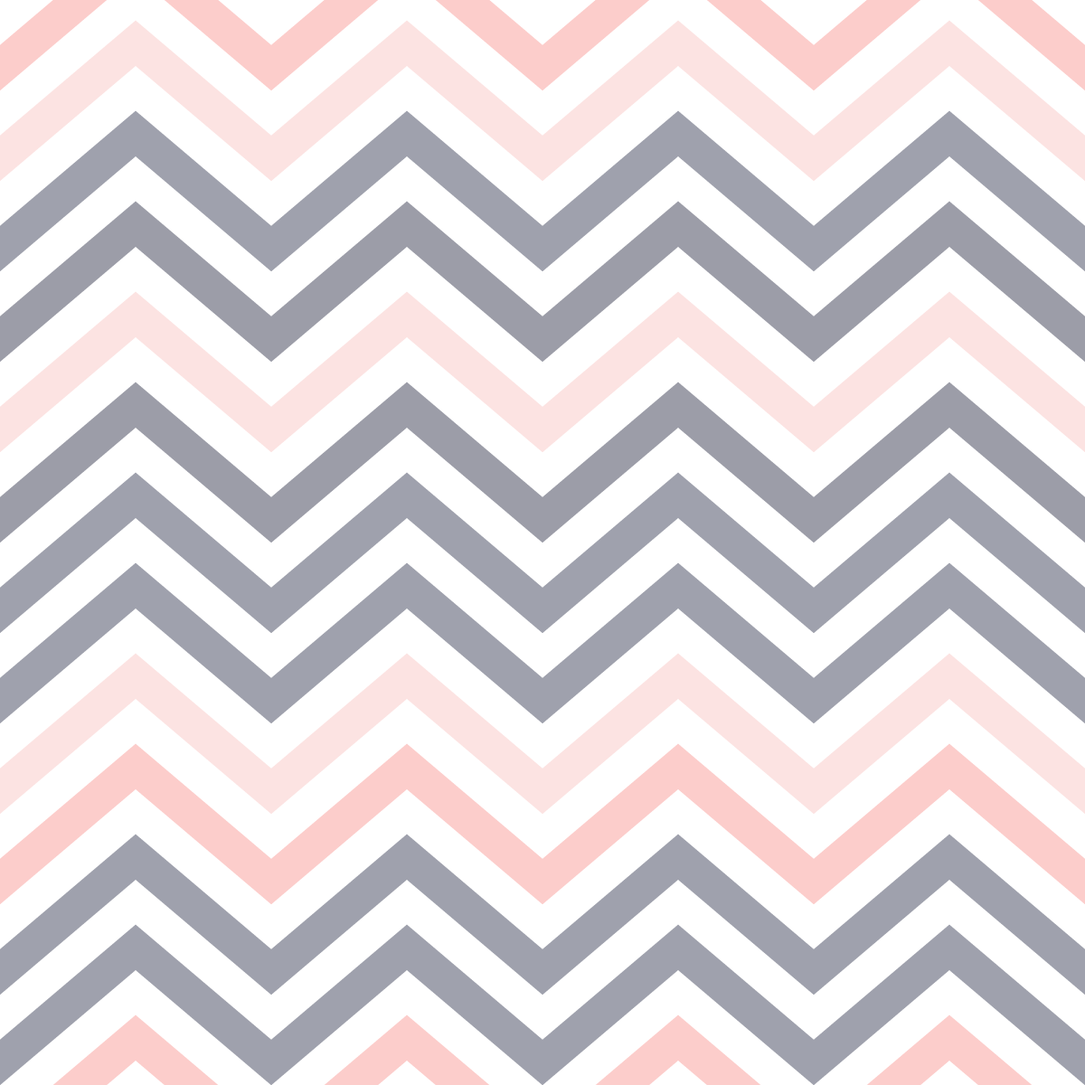
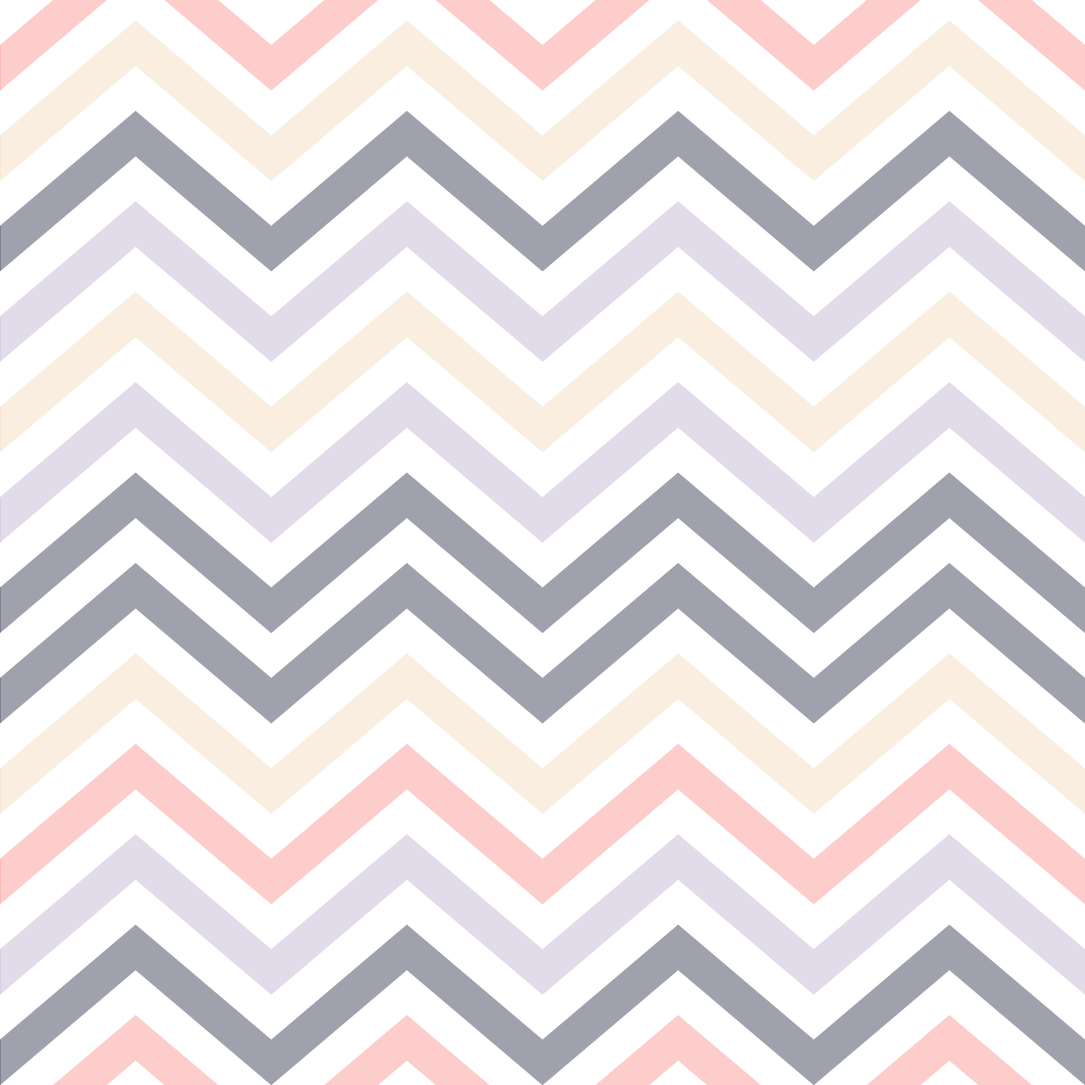
add filters

Changed region(s): [[0.0, 0.3392, 1.0, 0.4933], [0.0, 0.7708, 1.0, 0.925], [0.0, 0.185, 1.0, 0.3392]]

diff --git a/www/css/style.min.css b/www/css/style.min.css
@@ -1,1 +1,1 @@
-.content{*zoom:1}.content:after,.content:before{content:"";display:table}.content:after{clear:both}*,:after,:before{-webkit-box-sizing:border-box;box-sizing:border-box;outline:none}header:after{clear:both}header:after,header:before{content:"";display:table}body{background-color:#fff;color:#080a25;font-family:Varela Round,Helvetica,Arial,Sans-serif;font-weight:400;font-size:16px;font-size:1rem}.content{margin:0 auto;max-width:1280px;position:relative;padding:0 15px}ul{list-style:none;margin:0;padding:0}h1,h2,h3,h4,h5,h6{font-family:Permanent Marker,Helvetica,Arial,Sans-serif}a{text-decoration:none;color:#f8837d}button{background-color:#f86d64;border:0;border-radius:5px;padding:15px;position:relative;left:50%;-webkit-transform:translateX(-50%);transform:translateX(-50%);font-size:16px;font-size:1rem}.flex{display:-webkit-box;display:-ms-flexbox;display:flex}header{position:relative;width:100%}header.site-header .header-bar{position:absolute;top:0;left:0;z-index:99;width:100%;padding:40px 0}header.site-header .header-bar .logo{margin:0;padding-left:50px}header.site-header .header-bar .logo img{max-width:130px}header.site-header .header-bar .site-navigation{position:absolute;top:-11px;right:15px;z-index:9999;width:100%;height:22px;overflow:hidden;list-style:none;-webkit-transition:all .35s;transition:all .35s;color:#fff}header.site-header .header-bar .site-navigation.show{height:auto}header.site-header .header-bar .site-navigation.show ul{left:0}header.site-header .header-bar .site-navigation .hamburger-menu{position:relative;width:100%;max-width:24px;height:22px;margin-left:auto;-webkit-transition:.5s ease-in-out;transition:.5s ease-in-out;cursor:pointer}header.site-header .header-bar .site-navigation .hamburger-menu span{display:block;position:absolute;height:2px;width:100%;background:#fff;border-radius:10px;opacity:1;left:0;-webkit-transition:.25s ease-in-out;transition:.25s ease-in-out}header.site-header .header-bar .site-navigation .hamburger-menu span:first-child{top:2px}header.site-header .header-bar .site-navigation .hamburger-menu span:nth-child(2),header.site-header .header-bar .site-navigation .hamburger-menu span:nth-child(3){top:10px}header.site-header .header-bar .site-navigation .hamburger-menu span:nth-child(4){top:18px}header.site-header .header-bar .site-navigation .hamburger-menu.open span:first-child{top:18px;width:0;left:50%}header.site-header .header-bar .site-navigation .hamburger-menu.open span:nth-child(2){-webkit-transform:rotate(45deg);transform:rotate(45deg)}header.site-header .header-bar .site-navigation .hamburger-menu.open span:nth-child(3){-webkit-transform:rotate(-45deg);transform:rotate(-45deg)}header.site-header .header-bar .site-navigation .hamburger-menu.open span:nth-child(4){top:18px;width:0;left:50%}header.site-header .header-bar .site-navigation ul{position:fixed;top:0;left:-320px;z-index:9999;width:320px;height:100vh;overflow-x:scroll;padding:30px;margin:0;background:#080a25;-webkit-transition:all .35s;transition:all .35s}header.site-header .header-bar .site-navigation ul li{display:block;padding:15px 0}#lineup.content-section{width:100%;padding-bottom:120px;background:url(../media/img/background/lineup.png) repeat 50%}@media screen and (-moz-min-device-pixel-ratio:2),screen and (-webkit-min-device-pixel-ratio:2),screen and (min--moz-device-pixel-ratio:2),screen and (min-device-pixel-ratio:2),screen and (min-resolution:2dppx),screen and (min-resolution:192dpi){#lineup.content-section{background:url(../media/img/background/lineup@2x.png) repeat 50%;background-size:100% auto}}#lineup.content-section .lineup-artists-headline{margin-top:115px}#lineup.content-section .lineup-artists-headline p{margin:0;padding:0;font-size:14px;font-weight:600;color:#f8b9b6}#lineup.content-section .lineup-artists-headline .lineup-artists{padding-top:80px}#lineup.content-section .lineup-artists-headline .lineup-artists .lineup-artists-wrap{margin-top:80px}@media screen and (min-width:768px){#lineup.content-section .lineup-artists-headline .lineup-artists .lineup-artists-wrap{margin-top:30px}}@media screen and (min-width:768px){#lineup.content-section .lineup-artists-headline .lineup-artists .lineup-artists-wrap:nth-of-type(2n) .lineup-artists-description-container{right:-75px;left:auto}}#lineup.content-section .lineup-artists-headline .lineup-artists .lineup-artists-wrap .lineup-artists-description{position:relative;width:100%}@media screen and (min-width:768px){#lineup.content-section .lineup-artists-headline .lineup-artists .lineup-artists-wrap .lineup-artists-description{width:calc(100% - 360px)}}#lineup.content-section .lineup-artists-headline .lineup-artists .lineup-artists-wrap .lineup-artists-description .entry-title{font-weight:600;color:#080a25}#lineup.content-section .lineup-artists-headline .lineup-artists .lineup-artists-wrap .lineup-artists-description .entry-content{margin-top:20px;color:#101531;line-height:2}#lineup.content-section .lineup-artists-headline .lineup-artists .lineup-artists-wrap .lineup-artists-description-container{position:relative;padding:30px;background:#fff;-webkit-box-shadow:50px 40px 115px rgba(0,0,0,.1);box-shadow:50px 40px 115px rgba(0,0,0,.1)}@media screen and (min-width:768px){#lineup.content-section .lineup-artists-headline .lineup-artists .lineup-artists-wrap .lineup-artists-description-container{position:absolute;z-index:99;top:100px;left:-75px;width:calc(100% + 75px)}}@media screen and (min-width:992px){#lineup.content-section .lineup-artists-headline .lineup-artists .lineup-artists-wrap .lineup-artists-description-container{max-width:660px;padding:50px}}#lineup.content-section .lineup-artists-headline .lineup-artists .lineup-artists-wrap .box-link{position:absolute;margin:0;padding:0;top:-24px;right:50px;z-index:999}#lineup.content-section .lineup-artists-headline .lineup-artists .featured-image{width:100%;margin:0;padding:0}@media screen and (min-width:768px){#lineup.content-section .lineup-artists-headline .lineup-artists .featured-image{max-width:360px}}#lineup.content-section .lineup-artists-headline .lineup-artists .featured-image img{width:100%;max-width:100%}@media screen and (min-width:768px){#lineup.content-section .lineup-artists-headline .lineup-artists .featured-image img{max-height:417px;-o-object-fit:cover;object-fit:cover}}@media screen and (min-width:414px){#lineup.content-section .lineup-artists-headline .lineup-artists .featured-image img{max-height:100%}}#cartel.content-section{width:100%}#cartel.content-section .cartel-view{padding:90px}#cartel.content-section .cartel-view img{max-width:100%;width:100%}.hero-content{padding:220px 0;background:-webkit-gradient(linear,left top,left bottom,from(rgba(98,17,206,.25)),to(rgba(75,0,255,.18))),url(https://images.unsplash.com/photo-1491210953611-dcd4c66e0840?auto=format&fit=crop&ixid=eyJhcHBfaWQiOjEyMDd9&ixlib=rb-1.2.1&q=80&w=2850) no-repeat;background:linear-gradient(rgba(98,17,206,.25),rgba(75,0,255,.18)),url(https://images.unsplash.com/photo-1491210953611-dcd4c66e0840?auto=format&fit=crop&ixid=eyJhcHBfaWQiOjEyMDd9&ixlib=rb-1.2.1&q=80&w=2850) no-repeat;background-size:cover;background-position:50%}.hero-content .entry-header{position:relative;text-align:center}.hero-content .entry-header h1{font-size:6vw;text-shadow:2px 2px 2px #f8b9b6}.hero-content .entry-meta-date{font-size:5vw;text-shadow:2px 2px 2px #f8b9b6}.hero-content .countdown{margin-top:40px}.hero-content .countdown .countdown-holder{min-width:150px;margin-bottom:30px}.hero-content .countdown .countdown-holder .dday,.hero-content .countdown .countdown-holder .dhour,.hero-content .countdown .countdown-holder .dmin,.hero-content .countdown .countdown-holder .dsec{display:block;font-size:31px;font-weight:600;line-height:1;color:#f86d64;text-shadow:2px 2px 2px #101531}.hero-content .countdown .countdown-holder label{display:block;font-size:25px;font-weight:600;color:#fff}.site-footer{position:relative;padding:40px 0 30px}.site-footer:before{position:absolute;content:" ";height:100%;width:100%;z-index:3;background:rgba(13,13,13,.7);top:0;left:0}.site-footer .footer-cover-title{min-height:480px;width:100%}.site-footer .footer-cover-title h2{font-size:8vw;font-weight:700;line-height:1;margin-bottom:0;text-align:center;color:#fff;mix-blend-mode:overlay;z-index:2}.site-footer .footer-content-wrapper{position:absolute;width:100%;height:auto;z-index:4;top:130px;left:0;padding:6px 0;text-align:center}.site-footer .footer-content-wrapper .entry-title{text-align:center;margin-top:25px}.site-footer .footer-content-wrapper .entry-title h2{font-size:8vw;font-weight:700;line-height:1;margin-bottom:0;text-align:center;color:#fff;mix-blend-mode:overlay;z-index:2}.site-footer .footer-content-wrapper .entry-mail{margin-top:16px;font-size:16px;font-weight:700;color:#fff}.site-footer .footer-content-wrapper .copyright-info{margin-top:20px;font-size:12px;color:#fff}.site-footer .footer-content-wrapper .footer-social{margin-top:32px}
+.content{*zoom:1}.content:after,.content:before{content:"";display:table}.content:after{clear:both}*,:after,:before{-webkit-box-sizing:border-box;box-sizing:border-box;outline:none}header:after{clear:both}header:after,header:before{content:"";display:table}body{background-color:#fff;color:#080a25;font-family:Varela Round,Helvetica,Arial,Sans-serif;font-weight:400;font-size:16px;font-size:1rem}.content{margin:0 auto;max-width:1280px;position:relative;padding:0 15px}ul{list-style:none;margin:0;padding:0}h1,h2,h3,h4,h5,h6{font-family:Permanent Marker,Helvetica,Arial,Sans-serif}a{text-decoration:none;color:#efd5b1}button{background-color:#f86d64;border:0;border-radius:5px;padding:15px;position:relative;left:50%;-webkit-transform:translateX(-50%);transform:translateX(-50%);font-size:16px;font-size:1rem}.flex{display:-webkit-box;display:-ms-flexbox;display:flex}header{position:relative;width:100%}header.site-header .header-bar{position:absolute;top:0;left:0;z-index:99;width:100%;padding:40px 0}header.site-header .header-bar .logo{margin:0;padding-left:50px}header.site-header .header-bar .logo img{max-width:130px}header.site-header .header-bar .site-navigation{position:absolute;top:-11px;right:15px;z-index:9999;width:100%;height:22px;overflow:hidden;list-style:none;-webkit-transition:all .35s;transition:all .35s;color:#fff}header.site-header .header-bar .site-navigation.show{height:auto}header.site-header .header-bar .site-navigation.show ul{left:0}header.site-header .header-bar .site-navigation .hamburger-menu{position:relative;width:100%;max-width:24px;height:22px;margin-left:auto;-webkit-transition:.5s ease-in-out;transition:.5s ease-in-out;cursor:pointer}header.site-header .header-bar .site-navigation .hamburger-menu span{display:block;position:absolute;height:2px;width:100%;background:#fff;border-radius:10px;opacity:1;left:0;-webkit-transition:.25s ease-in-out;transition:.25s ease-in-out}header.site-header .header-bar .site-navigation .hamburger-menu span:first-child{top:2px}header.site-header .header-bar .site-navigation .hamburger-menu span:nth-child(2),header.site-header .header-bar .site-navigation .hamburger-menu span:nth-child(3){top:10px}header.site-header .header-bar .site-navigation .hamburger-menu span:nth-child(4){top:18px}header.site-header .header-bar .site-navigation .hamburger-menu.open span:first-child{top:18px;width:0;left:50%}header.site-header .header-bar .site-navigation .hamburger-menu.open span:nth-child(2){-webkit-transform:rotate(45deg);transform:rotate(45deg)}header.site-header .header-bar .site-navigation .hamburger-menu.open span:nth-child(3){-webkit-transform:rotate(-45deg);transform:rotate(-45deg)}header.site-header .header-bar .site-navigation .hamburger-menu.open span:nth-child(4){top:18px;width:0;left:50%}header.site-header .header-bar .site-navigation ul{position:fixed;top:0;left:-320px;z-index:9999;width:320px;height:100vh;overflow-x:scroll;padding:30px;margin:0;background:#080a25;-webkit-transition:all .35s;transition:all .35s}header.site-header .header-bar .site-navigation ul li{display:block;padding:15px 0}#lineup.content-section{width:100%;padding-bottom:120px;background:url(../media/img/background/lineup.png) repeat 50%;border-bottom:10px solid #fccdcb;border-top:10px solid #e2dcea}@media screen and (-moz-min-device-pixel-ratio:2),screen and (-webkit-min-device-pixel-ratio:2),screen and (min--moz-device-pixel-ratio:2),screen and (min-device-pixel-ratio:2),screen and (min-resolution:2dppx),screen and (min-resolution:192dpi){#lineup.content-section{background:url(../media/img/background/lineup@2x.png) repeat 50%;background-size:100% auto}}#lineup.content-section .lineup-artists-headline{margin-top:115px}#lineup.content-section .lineup-artists-headline p{margin:0;padding:0;font-size:14px;font-weight:600;color:#b6a6ca}#lineup.content-section .lineup-artists-headline .lineup-artists{padding-top:80px}#lineup.content-section .lineup-artists-headline .lineup-artists .lineup-artists-wrap{margin-top:80px}@media screen and (min-width:768px){#lineup.content-section .lineup-artists-headline .lineup-artists .lineup-artists-wrap{margin-top:30px}}@media screen and (min-width:768px){#lineup.content-section .lineup-artists-headline .lineup-artists .lineup-artists-wrap:nth-of-type(2n) .lineup-artists-description-container{right:-75px;left:auto}}#lineup.content-section .lineup-artists-headline .lineup-artists .lineup-artists-wrap .lineup-artists-description{position:relative;width:100%}@media screen and (min-width:768px){#lineup.content-section .lineup-artists-headline .lineup-artists .lineup-artists-wrap .lineup-artists-description{width:calc(100% - 360px)}}#lineup.content-section .lineup-artists-headline .lineup-artists .lineup-artists-wrap .lineup-artists-description .entry-title{font-weight:600;color:#080a25}#lineup.content-section .lineup-artists-headline .lineup-artists .lineup-artists-wrap .lineup-artists-description .entry-content{margin-top:20px;color:#101531;line-height:2}#lineup.content-section .lineup-artists-headline .lineup-artists .lineup-artists-wrap .lineup-artists-description-container{position:relative;padding:30px;background:#fff;-webkit-box-shadow:50px 40px 115px rgba(0,0,0,.1);box-shadow:50px 40px 115px rgba(0,0,0,.1)}@media screen and (min-width:768px){#lineup.content-section .lineup-artists-headline .lineup-artists .lineup-artists-wrap .lineup-artists-description-container{position:absolute;z-index:99;top:100px;left:-75px;width:calc(100% + 75px)}}@media screen and (min-width:992px){#lineup.content-section .lineup-artists-headline .lineup-artists .lineup-artists-wrap .lineup-artists-description-container{max-width:660px;padding:50px}}#lineup.content-section .lineup-artists-headline .lineup-artists .lineup-artists-wrap .box-link{position:absolute;margin:0;padding:0;top:-24px;right:50px;z-index:999}#lineup.content-section .lineup-artists-headline .lineup-artists .featured-image{width:100%;margin:0;padding:0}@media screen and (min-width:768px){#lineup.content-section .lineup-artists-headline .lineup-artists .featured-image{max-width:360px}}#lineup.content-section .lineup-artists-headline .lineup-artists .featured-image img{width:100%;max-width:100%}@media screen and (min-width:768px){#lineup.content-section .lineup-artists-headline .lineup-artists .featured-image img{max-height:417px;-o-object-fit:cover;object-fit:cover}}@media screen and (min-width:414px){#lineup.content-section .lineup-artists-headline .lineup-artists .featured-image img{max-height:100%}}#cartel.content-section{width:100%}#cartel.content-section .cartel-view{padding:90px}#cartel.content-section .cartel-view img{max-width:100%;width:100%}.hero-content{padding:220px 0;background:-webkit-gradient(linear,left top,left bottom,from(rgba(202,183,226,.82)),to(rgba(249,238,225,.27))),url(https://images.unsplash.com/photo-1491210953611-dcd4c66e0840?auto=format&fit=crop&ixid=eyJhcHBfaWQiOjEyMDd9&ixlib=rb-1.2.1&q=80&w=2850) no-repeat;background:linear-gradient(rgba(202,183,226,.82),rgba(249,238,225,.27)),url(https://images.unsplash.com/photo-1491210953611-dcd4c66e0840?auto=format&fit=crop&ixid=eyJhcHBfaWQiOjEyMDd9&ixlib=rb-1.2.1&q=80&w=2850) no-repeat;background-size:cover;background-position:50%}.hero-content .entry-header{position:relative;text-align:center}.hero-content .entry-header h1{font-size:6vw;text-shadow:2px 2px 2px #b6a6ca}.hero-content .entry-meta-date{font-size:5vw;text-shadow:2px 2px 2px #b6a6ca}.hero-content .countdown{margin-top:40px}.hero-content .countdown .countdown-holder{min-width:150px;margin-bottom:30px}.hero-content .countdown .countdown-holder .dday,.hero-content .countdown .countdown-holder .dhour,.hero-content .countdown .countdown-holder .dmin,.hero-content .countdown .countdown-holder .dsec{display:block;font-size:31px;font-weight:600;line-height:1;color:#f86d64;text-shadow:2px 2px 2px #101531}.hero-content .countdown .countdown-holder label{display:block;font-size:25px;font-weight:600;color:#fff}.site-footer{position:relative;padding:40px 0 30px}.site-footer:before{position:absolute;content:" ";height:100%;width:100%;z-index:3;background:#101531;top:0;left:0}.site-footer .footer-cover-title{min-height:480px;width:100%}.site-footer .footer-cover-title h2{font-size:8vw;font-weight:700;line-height:1;margin-bottom:0;text-align:center;color:#fff;mix-blend-mode:overlay;z-index:2}.site-footer .footer-content-wrapper{position:absolute;width:100%;height:auto;z-index:4;top:130px;left:0;padding:6px 0;text-align:center}.site-footer .footer-content-wrapper .entry-title{text-align:center;margin-top:25px}.site-footer .footer-content-wrapper .entry-title h2{font-size:8vw;font-weight:700;line-height:1;margin-bottom:0;text-align:center;color:#fff;mix-blend-mode:overlay;z-index:2}.site-footer .footer-content-wrapper .entry-mail{margin-top:16px;font-size:16px;font-weight:700;color:#fff}.site-footer .footer-content-wrapper .copyright-info{margin-top:20px;font-size:12px;color:#fff}.site-footer .footer-content-wrapper .footer-social{margin-top:32px}

diff --git a/www/index.html b/www/index.html
@@ -1,1 +1,1 @@
-<!DOCTYPE html><html><head><meta property="og:image" content=""><meta property="og:title" content=""><!--meta(property='og:url', content='#.html')--><meta property="og:description" content=""><meta name="twitter:card" content=""><meta name="twitter:site" content=""><meta name="twitter:title" content=""><meta name="twitter:description" content=""><meta name="twitter:creator" content=""><meta name="twitter:image" content=""><title>Estas veient: gulp tasks amb sass i json lang's</title><meta charset="utf-8"><meta content="width=device-width, initial-scale=1.0" name="viewport"><meta content="" property="og:image"><link sizes="152x152" rel="apple-touch-icon-precomposed" href=""><link sizes="144x144" rel="apple-touch-icon-precomposed" href=""><link sizes="120x120" rel="apple-touch-icon-precomposed" href=""><link sizes="114x114" rel="apple-touch-icon-precomposed" href=""><link sizes="72x72" rel="apple-touch-icon-precomposed" href=""><link rel="apple-touch-icon-precomposed" href=""><link sizes="32x32" rel="shortcut icon" href=""><link rel="stylesheet" href="css/bootstrap/bootstrap.css"><link rel="stylesheet" href="https://fonts.googleapis.com/css?family=Varela+Round"><link rel="stylesheet" href="https://fonts.googleapis.com/css?family=Montserrat|Varela+Round"><link rel="stylesheet" href="//netdna.bootstrapcdn.com/font-awesome/4.1.0/css/font-awesome.min.css"><link type="text/css" rel="stylesheet" href="css/style.min.css"></head></html><body data-language="ca"><header class="site-header"><div class="header-bar"><div class="container-fluid"><div class="row align-items-center"><div class="col-10 col-lg-4"><div class="logo"><a href="#"><img src="media/img/femrevol.png" alt="FemRevol"></a></div></div><div class="col-2 col-lg-8"><nav class="site-navigation"><div class="hamburger-menu d-lg-none"><span></span><span></span><span></span><span></span></div><ul><li><a href="index_es.html"><span> Castellà</span></a></li><li><a href="index_ca.html"><span> Català</span></a></li><li><a href="#">HOME</a></li><li><a href="index_ca.html"><span>Inici</span></a></li><li><a href="form_ca.html"><span>Formulari</span></a></li><li><a href="gracias_ca.html"><span>Gracies</span></a></li></ul></nav></div></div></div></div></header><!--.cookies-data(data-text='#{i18n.cookies.text}' data-link-text='#{i18n.cookies.link_text}' data-url='#{i18n.cookies.url}')--><main><div class="hero-content"><div class="container"><div class="row"><div class="col-12 offset-lg-1 col-lg-10"><div class="entry-header"><h2>¡Carrancà Cony!</h2><div class="entry-meta-date">06.04.2019</div></div><div class="countdown flex flex-wrap justify-content-between" data-date="2019/04/06 18:00"><div class="countdown-holder"><div class="dday">0</div><label>Days</label></div><div class="countdown-holder"><div class="dhour">0</div><label>Hours</label></div><div class="countdown-holder"><div class="dmin">0</div><label>Minutes</label></div><div class="countdown-holder"><div class="dsec">0</div><label>Seconds</label></div></div></div></div></div></div><section class="content-section" id="lineup"><div class="container"><div class="row"><div class="col-12"><div class="lineup-artists-headline"><div class="entry-title"><p>JUST THE BEST</p><h2>The Lineup Artists-Headliners</h2></div><div class="lineup-artists"><div class="lineup-artists-wrap flex flex-wrap"><figure class="featured-image"><a href="#"><img src="http://placekitten.com/g/300/200" alt=""></a></figure><div class="lineup-artists-description"><div class="lineup-artists-description-container"><div class="entry-title">Pasquines</div><div class="entry-content"><p>Cat ipsum dolor sit amet, scratch at the door then walk away, but i shall purr myself to sleep pet my belly, you know you want to; seize the hand and shred it! but hunt by meowing loudly at 5am next to human slave food dispenser. Poop on grasses toy mouse squeak roll over yet sit on human hide from vacuum cleaner. </p></div><div class="box-link"><a href=""><img src="images/box.jpg" alt=""></a></div></div></div></div><div class="lineup-artists-wrap flex flex-wrap"><div class="lineup-artists-description"><figure class="featured-image d-md-none"><a href="#"><img src="http://placekitten.com/g/300/200" alt=""></a></figure><div class="lineup-artists-description-container"><div class="entry-title">Maruja Limón</div><div class="entry-content"><p>Cat ipsum dolor sit amet, scratch at the door then walk away, but i shall purr myself to sleep pet my belly, you know you want to; seize the hand and shred it! but hunt by meowing loudly at 5am next to human slave food dispenser. Poop on grasses toy mouse squeak roll over yet sit on human hide from vacuum cleaner. </p></div><div class="box-link"><a href=""><img src="images/box.jpg" alt=""></a></div></div></div><figure class="featured-image d-none d-md-block"><a href="#"><img src="http://placekitten.com/g/300/200" alt=""></a></figure></div><div class="lineup-artists-wrap flex flex-wrap"><figure class="featured-image"><a href=""><img src="http://placekitten.com/g/300/200" alt=""></a></figure><div class="lineup-artists-description"><div class="lineup-artists-description-container"><div class="entry-title">Fancy Candy girls</div><div class="entry-content"><p>Cat ipsum dolor sit amet, scratch at the door then walk away, but i shall purr myself to sleep pet my belly, you know you want to; seize the hand and shred it! but hunt by meowing loudly at 5am next to human slave food dispenser. Poop on grasses toy mouse squeak roll over yet sit on human hide from vacuum cleaner. </p></div><div class="box-link"><a href=""><img src="images/box.jpg" alt=""></a></div></div></div></div><div class="lineup-artists-wrap flex flex-wrap"><div class="lineup-artists-description"><figure class="featured-image d-md-none"><a href=""><img src="http://placekitten.com/g/300/200" alt=""></a></figure><div class="lineup-artists-description-container"><div class="entry-title">DJ M&amp;M</div><div class="entry-content"><p>Annoy the old grumpy cat, start a fight and then retreat to wash when i lose if it fits, i sits jump off balcony, onto stranger</p></div><div class="box-link"><a href=""><img src="images/box.jpg" alt=""></a></div></div></div><figure class="featured-image d-none d-md-block"><a href=""><img src="http://placekitten.com/g/300/200" alt=""></a></figure></div></div></div></div></div></div></section></main></body><a href="https://www.freepik.es/fotos-vectores-gratis/fondo" target="_blank"></a><script src="https://code.jquery.com/jquery-3.1.1.min.js"></script><script src="js/vendor/bootstrap/bootstrap.js"></script><script src="js/main.js"></script>
+<!DOCTYPE html><html><head><meta property="og:image" content=""><meta property="og:title" content=""><!--meta(property='og:url', content='#.html')--><meta property="og:description" content=""><meta name="twitter:card" content=""><meta name="twitter:site" content=""><meta name="twitter:title" content=""><meta name="twitter:description" content=""><meta name="twitter:creator" content=""><meta name="twitter:image" content=""><title>Estas veient: gulp tasks amb sass i json lang's</title><meta charset="utf-8"><meta content="width=device-width, initial-scale=1.0" name="viewport"><meta content="" property="og:image"><link rel="apple-touch-icon" sizes="57x57" href="/media/favicon/apple-icon-57x57.png"><link rel="apple-touch-icon" sizes="60x60" href="/media/favicon/apple-icon-60x60.png"><link rel="apple-touch-icon" sizes="72x72" href="/media/favicon/apple-icon-72x72.png"><link rel="apple-touch-icon" sizes="76x76" href="/media/favicon/apple-icon-76x76.png"><link rel="apple-touch-icon" sizes="114x114" href="/media/favicon/apple-icon-114x114.png"><link rel="apple-touch-icon" sizes="120x120" href="/media/favicon/apple-icon-120x120.png"><link rel="apple-touch-icon" sizes="144x144" href="/media/favicon/apple-icon-144x144.png"><link rel="apple-touch-icon" sizes="152x152" href="/media/favicon/apple-icon-152x152.png"><link rel="apple-touch-icon" sizes="180x180" href="/media/favicon/apple-icon-180x180.png"><link rel="icon" type="image/png" sizes="192x192" href="/media/favicon/android-icon-192x192.png"><link rel="icon" type="image/png" sizes="32x32" href="/media/favicon/favicon-32x32.png"><link rel="icon" type="image/png" sizes="96x96" href="/media/favicon/favicon-96x96.png"><link rel="icon" type="image/png" sizes="16x16" href="/media/favicon/favicon-16x16.png"><link rel="manifest" href="/favicon/manifest.json"><meta name="msapplication-TileColor" content="#ffffff"><meta name="msapplication-TileImage" content="/media/favicon/ms-icon-144x144.png"><meta name="theme-color" content="#ffffff"><link rel="stylesheet" href="css/bootstrap/bootstrap.css"><link rel="stylesheet" href="https://fonts.googleapis.com/css?family=Varela+Round"><link rel="stylesheet" href="https://fonts.googleapis.com/css?family=Permanent+Marker"><link rel="stylesheet" href="//netdna.bootstrapcdn.com/font-awesome/4.1.0/css/font-awesome.min.css"><link type="text/css" rel="stylesheet" href="css/style.min.css"></head></html><body data-language="ca"><header class="site-header"><div class="header-bar"><div class="container-fluid"><div class="row align-items-center"><div class="col-10 col-lg-4"><div class="logo"><a href="#"><img src="./media/img/femrevol.png" alt="FemRevol"></a></div></div><div class="col-2 col-lg-8"><nav class="site-navigation"><div class="hamburger-menu d-lg-none"><span></span><span></span><span></span><span></span></div><ul><li><a href="index_es.html"><span> Castellà</span></a></li><li><a href="index_ca.html"><span> Català</span></a></li><li><a href="#">HOME</a></li><li><a href="index_ca.html"><span>Inici</span></a></li><li><a href="form_ca.html"><span>Formulari</span></a></li><li><a href="gracias_ca.html"><span>Gracies</span></a></li></ul></nav></div></div></div></div></header><!--.cookies-data(data-text='#{i18n.cookies.text}' data-link-text='#{i18n.cookies.link_text}' data-url='#{i18n.cookies.url}')--><main><div class="hero-content"><div class="container"><div class="row"><div class="col-12 offset-lg-1 col-lg-10"><div class="entry-header"><h1>CARRANCÀ CONY</h1><div class="entry-meta-date"><h2>06.04.2019</h2></div></div><div class="countdown flex flex-wrap justify-content-between" data-date="2019/04/06 18:00"><div class="countdown-holder"><div class="dday">0</div><label>Días</label></div><div class="countdown-holder"><div class="dhour">0</div><label>Horas</label></div><div class="countdown-holder"><div class="dmin">0</div><label>Minutos</label></div><div class="countdown-holder"><div class="dsec">0</div><label>Segundos</label></div></div></div></div></div></div><section class="content-section" id="lineup"><div class="container"><div class="row"><div class="col-12"><div class="lineup-artists-headline"><div class="entry-title"><p>JUST THE BEST</p><h2>The Lineup Artists-Headliners</h2></div><div class="lineup-artists"><div class="lineup-artists-wrap flex flex-wrap"><figure class="featured-image"><a href="#"><img src="http://placekitten.com/g/200/300" alt=""></a></figure><div class="lineup-artists-description"><div class="lineup-artists-description-container"><div class="entry-title">Pasquines</div><div class="entry-content"><p>Cat ipsum dolor sit amet, scratch at the door then walk away, but i shall purr myself to sleep pet my belly, you know you want to; seize the hand and shred it! but hunt by meowing loudly at 5am next to human slave food dispenser. Poop on grasses toy mouse squeak roll over yet sit on human hide from vacuum cleaner. </p></div></div></div></div><div class="lineup-artists-wrap flex flex-wrap"><div class="lineup-artists-description"><figure class="featured-image d-md-none"><a href="#"><img src="http://placekitten.com/g/200/300" alt=""></a></figure><div class="lineup-artists-description-container"><div class="entry-title">Maruja Limón</div><div class="entry-content"><p>Cat ipsum dolor sit amet, scratch at the door then walk away, but i shall purr myself to sleep pet my belly, you know you want to; seize the hand and shred it! but hunt by meowing loudly at 5am next to human slave food dispenser. Poop on grasses toy mouse squeak roll over yet sit on human hide from vacuum cleaner. </p></div></div></div><figure class="featured-image d-none d-md-block"><a href="#"><img src="http://placekitten.com/g/200/300" alt=""></a></figure></div><div class="lineup-artists-wrap flex flex-wrap"><figure class="featured-image"><a href=""><img src="http://placekitten.com/g/200/300" alt=""></a></figure><div class="lineup-artists-description"><div class="lineup-artists-description-container"><div class="entry-title">Fancy Candy girls</div><div class="entry-content"><p>Cat ipsum dolor sit amet, scratch at the door then walk away, but i shall purr myself to sleep pet my belly, you know you want to; seize the hand and shred it! but hunt by meowing loudly at 5am next to human slave food dispenser. Poop on grasses toy mouse squeak roll over yet sit on human hide from vacuum cleaner. </p></div></div></div></div><div class="lineup-artists-wrap flex flex-wrap"><div class="lineup-artists-description"><figure class="featured-image d-md-none"><a href=""><img src="http://placekitten.com/g/200/300" alt=""></a></figure><div class="lineup-artists-description-container"><div class="entry-title">DJ M&amp;M</div><div class="entry-content"><p>Annoy the old grumpy cat, start a fight and then retreat to wash when i lose if it fits, i sits jump off balcony, onto stranger</p></div></div></div><figure class="featured-image d-none d-md-block"><a href=""><img src="http://placekitten.com/g/200/300" alt=""></a></figure></div></div></div></div></div></div></section><section class="content-section" id="cartel"><div class="container"><div class="row"><div class="col-12"><div class="cartel-view"><a download="carrancacony-18.png" href="./media/img/carrancacony-18.png" title="Descargar el cartel"><img src="./media/img/carrancacony-18.png" alt="cartel 2018" data-toggle="tooltip" data-placement="top" title="Descargar el cartel"></a></div></div></div></div></section><div style="width: 100%"><iframe src="https://www.google.com/maps/embed?pb=!1m14!1m8!1m3!1d11947.601408019205!2d2.2292127!3d41.5280991!3m2!1i1024!2i768!4f13.1!3m3!1m2!1s0x0%3A0x6aea04a325e4d438!2zQ2FycmVuY8Og!5e0!3m2!1ses!2ses!4v1550534108780" width="100%" height="200" frameborder="0" style="border:0" allowfullscreen=""></iframe></div></main></body><footer class="site-footer"><div class="footer-cover-title flex justify-content-center align-items-center"><h2>CARRANCÀ CONY</h2></div><div class="footer-content-wrapper"><div class="container"><div class="row"><div class="col-12"><div class="entry-title"><h2>CARRANCÀ CONY</h2></div><div class="entry-mail"><a href="mailto:info@femrevol.com" target="_blank">info@femrevol.com</a></div><div class="copyright-info">Copyright &copy;<script>document.write(new Date().getFullYear());</script>All rights reserved</div><div class="footer-social"><ul class="flex justify-content-center align-items-center"><li><a href="#"><i class="fab fa-pinterest"></i></a></li><li><a href="#"><i class="fab fa-facebook-f"></i></a></li><li><a href="#"><i class="fab fa-twitter"></i></a></li><li><a href="#"><i class="fab fa-dribbble"></i></a></li><li><a href="#"><i class="fab fa-behance"></i></a></li><li><a href="#"><i class="fab fa-linkedin-in"></i></a></li></ul></div></div></div></div></div></footer><a href="https://www.freepik.es/fotos-vectores-gratis/fondo" target="_blank"></a><script src="https://code.jquery.com/jquery-3.1.1.min.js"></script><script src="js/vendor/bootstrap/bootstrap.js"></script><script src="js/main.js"></script>

diff --git a/src/sass/partials/_countdown.scss b/src/sass/partials/_countdown.scss
@@ -5,7 +5,7 @@
 
 .hero-content {
 	padding: 220px 0;
-	background: linear-gradient(rgba(98, 17, 206, 0.25),rgba(75, 0, 255, 0.18)), url($image-header) no-repeat;
+	background: linear-gradient(rgba(202, 183, 226, 0.82),rgba(249, 238, 225, 0.27)), url($image-header) no-repeat;
 	background-size: cover;
 	background-position: center center;
 

diff --git a/src/sass/partials/_lineup.scss b/src/sass/partials/_lineup.scss
@@ -6,6 +6,8 @@
 	width: 100%;
 	padding-bottom: 120px;
 	@include imgRetina($background-lineup, png, 100%, auto, center, repeat);
+	border-bottom: 10px solid #fccdcb;
+	border-top: 10px solid #e2dcea;
 
 	.lineup-artists-headline {
 		margin-top: 115px;

diff --git a/src/sass/utils/_settings.scss b/src/sass/utils/_settings.scss
@@ -5,8 +5,8 @@
 // Color
 
 $brand:						#F86D64;
-$primary:					#F8837D;
-$primarySoft:			#F8B9B6;
+$primary:					#EFD5B1;
+$primarySoft:			#B6A6CA;
 $secondary:				#101531;
 $black:						#080A25;
 $white:						#fff;

diff --git a/src/sass/partials/_footer.scss b/src/sass/partials/_footer.scss
@@ -12,7 +12,7 @@
 		height: 100%;
 		width: 100%;
 		z-index: 3;
-		background: hsla(0,0%,5%,.7);
+		background: $secondary;
 		top: 0;
 		left: 0;
 	}
